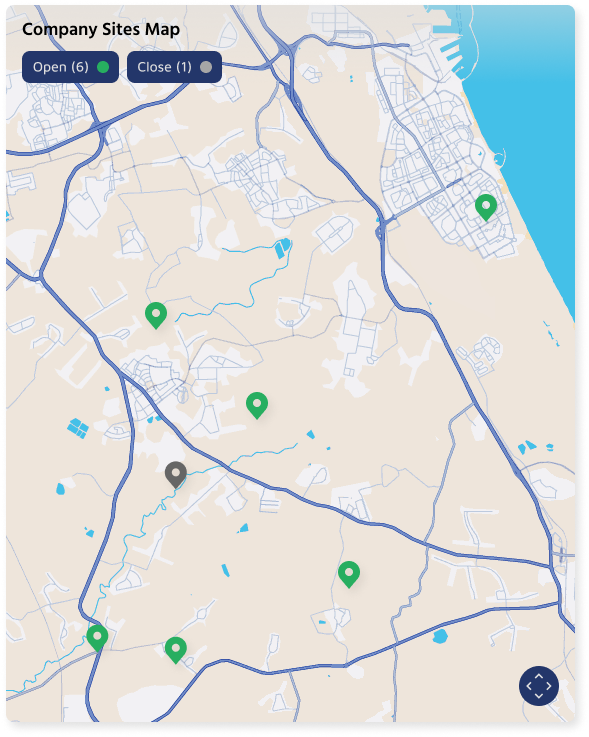
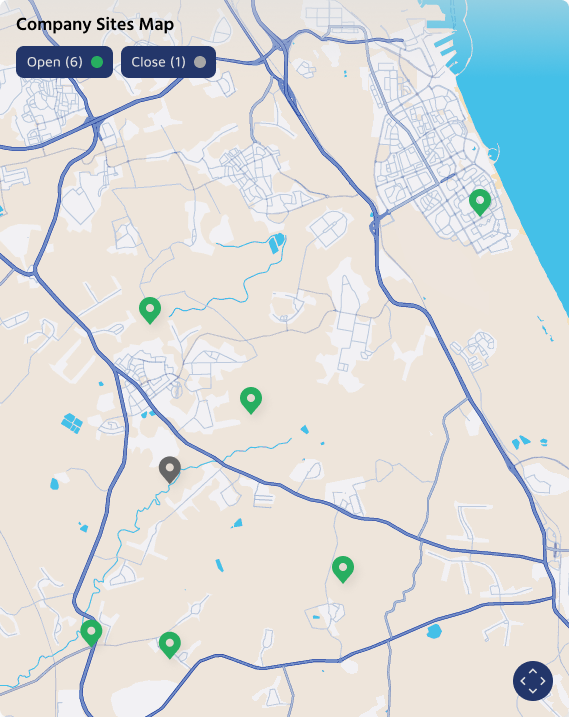
improve images quality and fill more missing images

diff --git a/src/app/portfolio/components/ImageCarousel.tsx b/src/app/portfolio/components/ImageCarousel.tsx
@@ -15,9 +15,19 @@ type ImageCarouselProps = {
   slides: ImageCarouselSlide[];
   className?: string;
   sizes?: string;
+  /** PNG / UI captures: skip optimizer for sharper text (same tradeoff as dashboard widgets) */
+  unoptimized?: boolean;
+  /** Used when optimized; ignored if unoptimized */
+  quality?: number;
 };
 
-export function ImageCarousel({ slides, className = "", sizes = "100vw" }: ImageCarouselProps) {
+export function ImageCarousel({
+  slides,
+  className = "",
+  sizes = "100vw",
+  unoptimized = false,
+  quality = 92,
+}: ImageCarouselProps) {
   const [activeIndex, setActiveIndex] = useState(0);
   const total = slides.length;
 
@@ -38,7 +48,10 @@ export function ImageCarousel({ slides, className = "", sizes = "100vw" }: Image
   return (
     <div className={`image-carousel ${className}`.trim()} aria-label="Image carousel">
       <div className="image-carousel__viewport">
-        <div className="image-carousel__track" style={{ transform: `translateX(-${safeIndex * 100}%)` }}>
+        <div
+          className="image-carousel__track"
+          style={{ transform: `translate3d(-${safeIndex * 100}%, 0, 0)` }}
+        >
           {slides.map((slide) => (
             <div key={slide.src} className="image-carousel__slide">
               <Image
@@ -49,6 +62,8 @@ export function ImageCarousel({ slides, className = "", sizes = "100vw" }: Image
                 height={slide.height}
                 sizes={sizes}
                 loading="eager"
+                unoptimized={unoptimized}
+                quality={unoptimized ? undefined : quality}
               />
             </div>
           ))}

diff --git a/src/app/portfolio/saas/components/SaasAccessSettingsSection.tsx b/src/app/portfolio/saas/components/SaasAccessSettingsSection.tsx
@@ -55,7 +55,8 @@ export function SaasAccessSettingsSection() {
                   alt="Astra user management table: roles, access levels, and site associations"
                   width={1320}
                   height={760}
-                  sizes="(max-width: 768px) 92vw, 1180px"
+                  sizes="(max-width: 768px) 92vw, min(1180px, 92vw)"
+                  unoptimized
                 />
               </div>
             }
@@ -73,7 +74,8 @@ export function SaasAccessSettingsSection() {
               <ImageCarousel
                 className="saas-access-settings__carousel"
                 slides={SYSTEM_CONFIGURATION_SLIDES}
-                sizes="(max-width: 768px) 92vw, 1180px"
+                sizes="(max-width: 768px) 92vw, min(1280px, 92vw)"
+                unoptimized
               />
             }
           />

diff --git a/src/app/portfolio/saas/components/SaasDashboardDualLayoutsSection.tsx b/src/app/portfolio/saas/components/SaasDashboardDualLayoutsSection.tsx
@@ -41,7 +41,8 @@ export function SaasDashboardDualLayoutsSection() {
               <ImageCarousel
                 className="saas-dashboard-dual-layouts__carousel"
                 slides={DASHBOARD_DUAL_LAYOUT_SLIDES}
-                sizes="(max-width: 768px) 92vw, 1180px"
+                sizes="(max-width: 768px) 92vw, min(1024px, 92vw)"
+                unoptimized
               />
             }
           />

diff --git a/src/app/portfolio/saas/components/SaasUserInterfaceSection.tsx b/src/app/portfolio/saas/components/SaasUserInterfaceSection.tsx
@@ -54,6 +54,7 @@ export function SaasUserInterfaceSection() {
                 width={1920}
                 height={1080}
                 sizes="(max-width: 768px) 92vw, min(880px, 82vw)"
+                unoptimized
               />
               <Image
                 className="saas-onboarding-still saas-onboarding-still--front"
@@ -62,6 +63,7 @@ export function SaasUserInterfaceSection() {
                 width={1920}
                 height={1080}
                 sizes="(max-width: 768px) 92vw, min(820px, 78vw)"
+                unoptimized
               />
             </div>
           </div>

diff --git a/src/app/portfolio/components/ImageCarousel.css b/src/app/portfolio/components/ImageCarousel.css
@@ -19,6 +19,7 @@
   width: 100%;
   transition: transform 320ms ease;
   will-change: transform;
+  backface-visibility: hidden;
 }
 
 .image-carousel__slide {